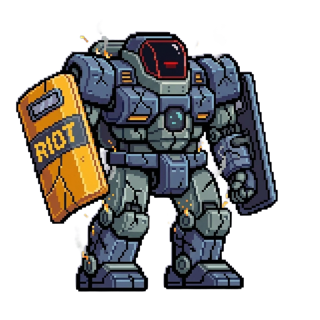
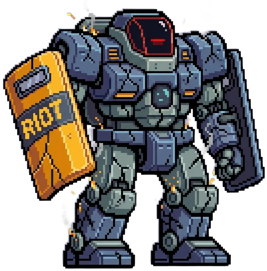
fix: boss plants on the ground + scaled up
Trimmed transparent padding from the boss frames (feet now at the image bottom)
and draw at 1.35x hitbox height with the bottom pinned to footY — Riot Mecha no
longer floats, and reads bigger/more imposing. ASSET_VER 6, BUILD 21.

diff --git a/kaiju-clash/index.html b/kaiju-clash/index.html
@@ -46,8 +46,8 @@ const ctx    = canvas.getContext('2d');
 let _baseTransform = null;   // declared here: resize() assigns it before the line below runs
 // Cache-busting: GitHub Pages serves assets with max-age=600, so an overwritten sound/sprite is
 // replayed stale from the browser cache. Versioned URLs force a fresh fetch. BUMP on asset change.
-const ASSET_VER = '5';   // bump ONLY when a sound/sprite/bg asset changes (busts those URLs)
-const BUILD = '20';       // bump EVERY deploy — drives the stale-page auto-reload below; keep version.txt == BUILD
+const ASSET_VER = '6';   // bump ONLY when a sound/sprite/bg asset changes (busts those URLs)
+const BUILD = '21';       // bump EVERY deploy — drives the stale-page auto-reload below; keep version.txt == BUILD
 const _av = u => u + (u.indexOf('?')<0?'?':'&') + 'v=' + ASSET_VER;
 // Auto-update: GitHub caches the HTML ~10 min, so players can run a stale build. Fetch the latest
 // build tag (uncached); if this page is older, reload to a fresh cache-key URL — no manual hard-
@@ -2382,8 +2382,8 @@ function drawBoss(s){
     ctx.save();
     if(b.state==='telegraph') ctx.translate(Math.sin(Tn*0.03)*2.5,0);           // wind-up wobble
     if(b.state==='defeated'){ const k=1700-b.stateMs; ctx.translate(0,Math.min(18,k*0.014)); ctx.rotate(b.dir*Math.min(0.12,k*0.0001)); }
-    const dh=bh, dw=dh*(bimg.naturalWidth/bimg.naturalHeight);                  // scale to the hitbox height
-    const dx=bx+bw/2-dw/2, dy=by+bh-dh;
+    const dh=bh*1.35, dw=dh*(bimg.naturalWidth/bimg.naturalHeight);             // a bit taller than the hitbox (frames are trimmed → feet at image bottom)
+    const dx=bx+bw/2-dw/2, dy=by+bh-dh;                                         // feet planted on the ground (image bottom = hitbox bottom = footY)
     if(b.dir>0){ ctx.translate(bx+bw/2,0); ctx.scale(-1,1); ctx.translate(-(bx+bw/2),0); }  // face travel dir
     ctx.drawImage(bimg, ~~dx, ~~dy, ~~dw, ~~dh);
     if(b.flashMs>0){ ctx.globalCompositeOperation='lighter'; ctx.globalAlpha=0.6; ctx.drawImage(bimg,~~dx,~~dy,~~dw,~~dh); }  // white-ish hit flash
